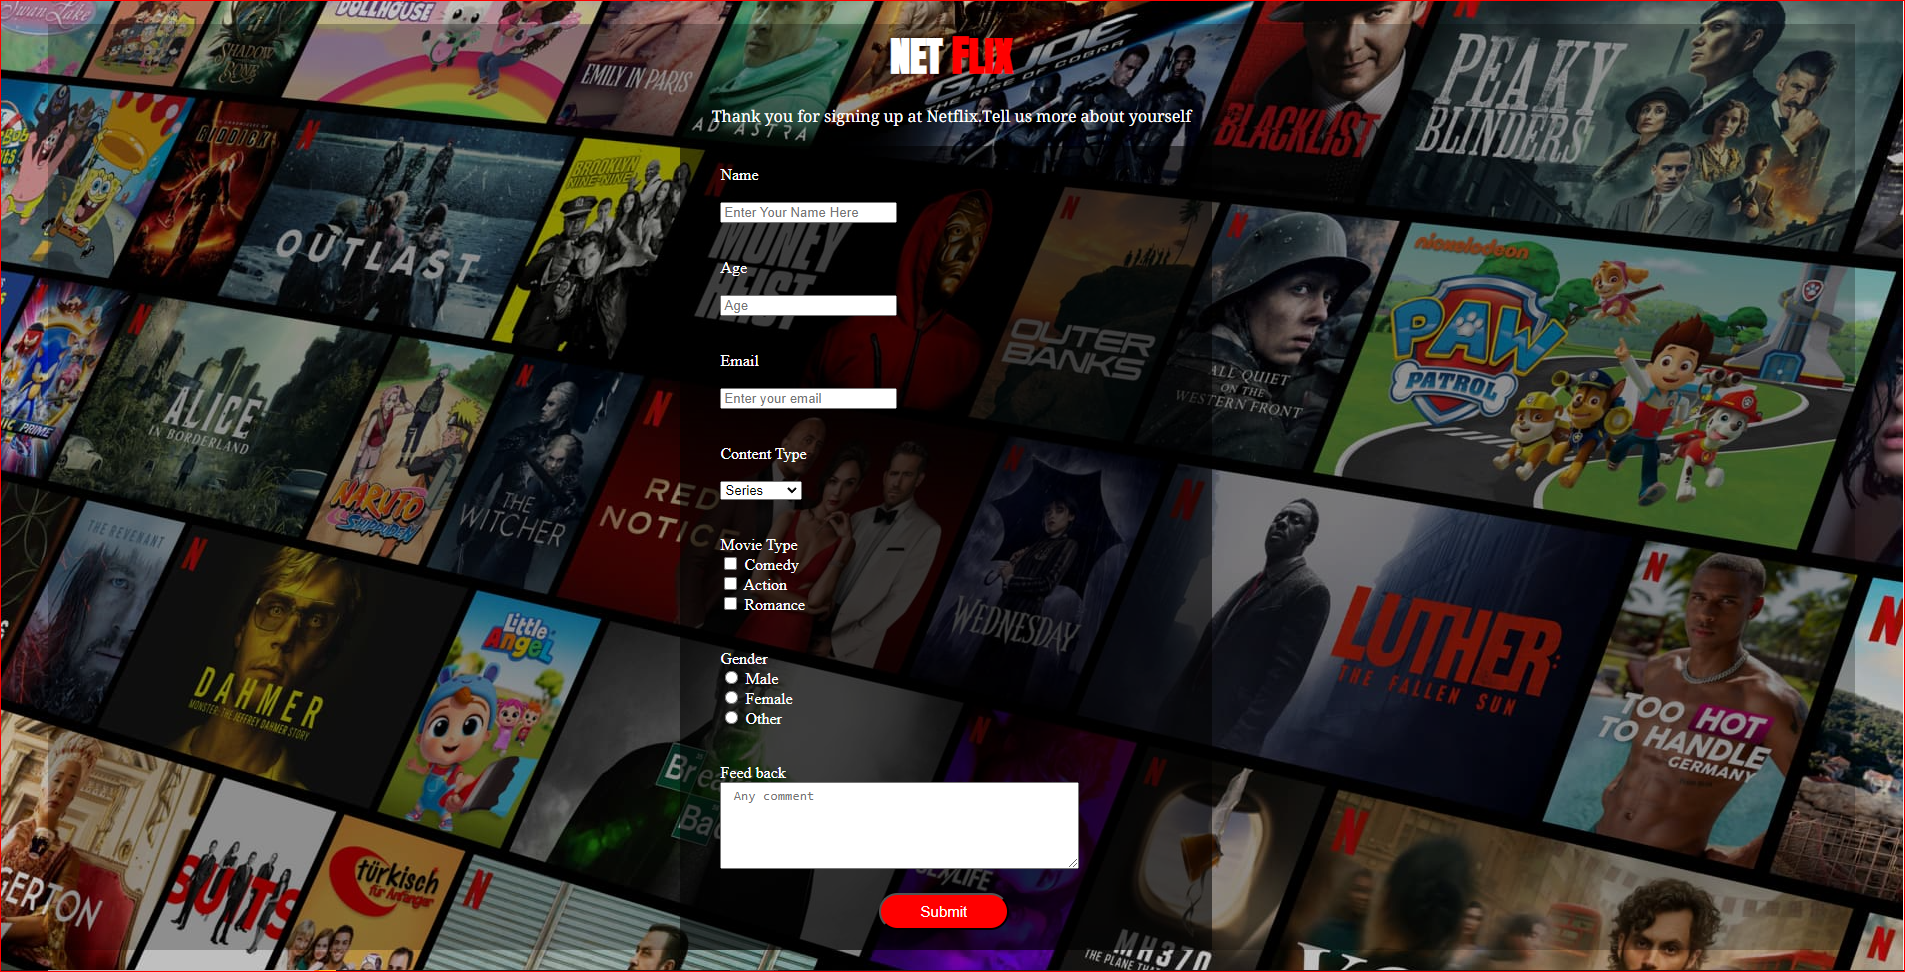
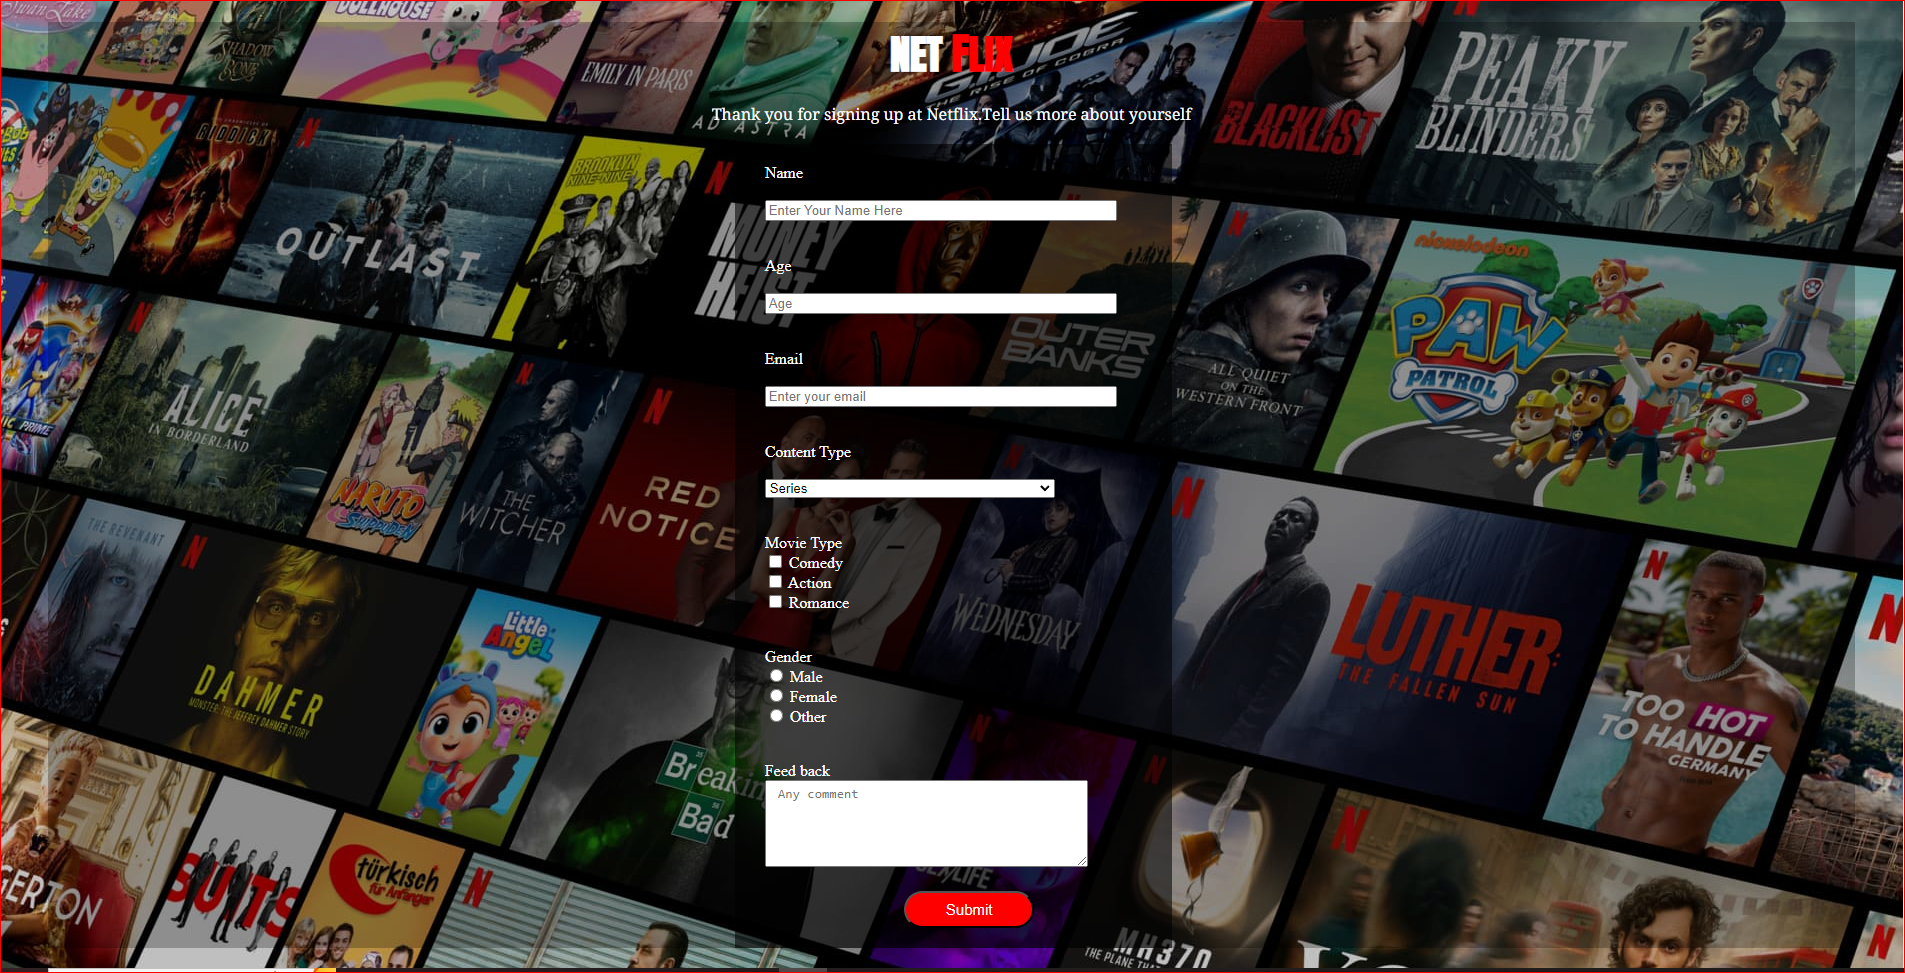
netflix_son

diff --git a/Projects/Netflix/netflix.css b/Projects/Netflix/netflix.css
@@ -16,11 +16,11 @@ body{
 }
 
 form{
-    margin-left: 35%;
-    width: 25%;
+    margin-left: 38%;
+    width: 22%;
     background-color: rgba(0, 0, 0, 0.568);
     text-align: left;
-    padding: 20px 40px 20px 30px;
+    padding: 20px 10px 20px 30px;
     
 }
 
